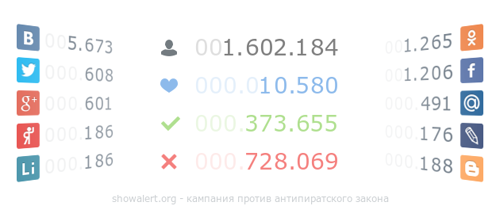
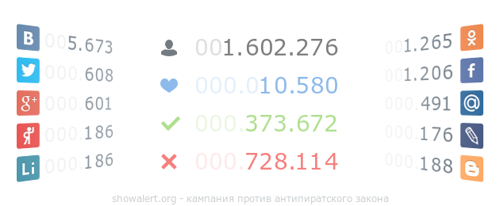
some updates

Changed region(s): [[0.57, 0.7282, 0.69, 0.8447], [0.6, 0.1748, 0.69, 0.2913], [0.6, 0.5534, 0.69, 0.6408]]

diff --git a/votes.js b/votes.js
@@ -1,1 +1,1 @@
-window.lk.votes(23763)
+window.lk.votes(23766)
